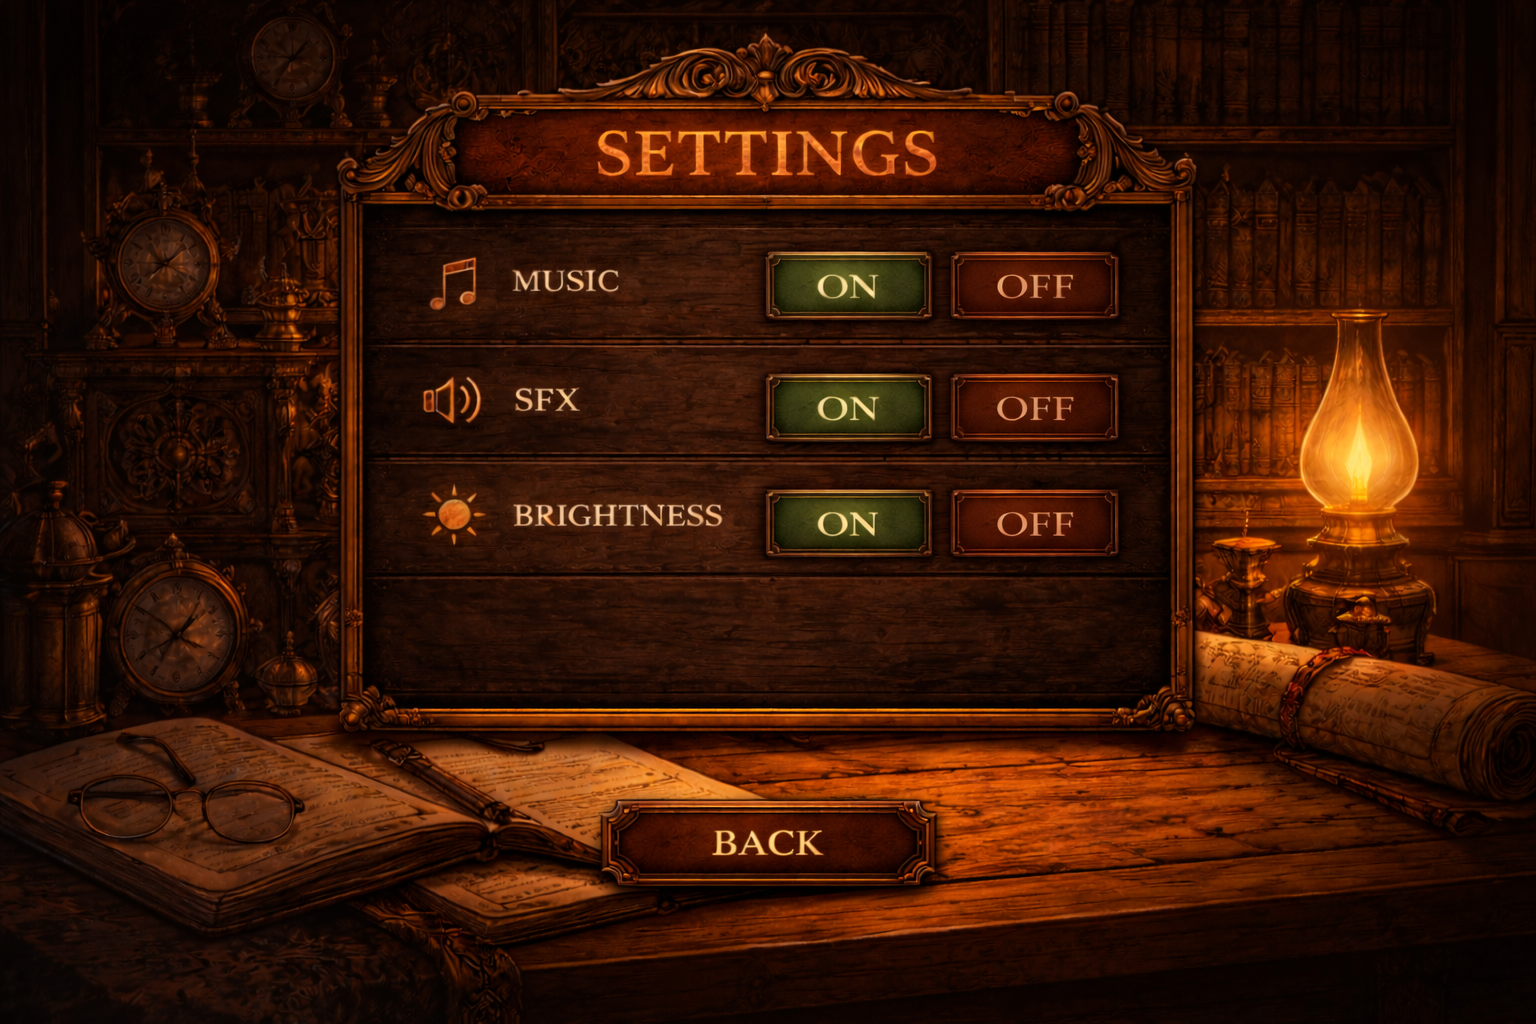
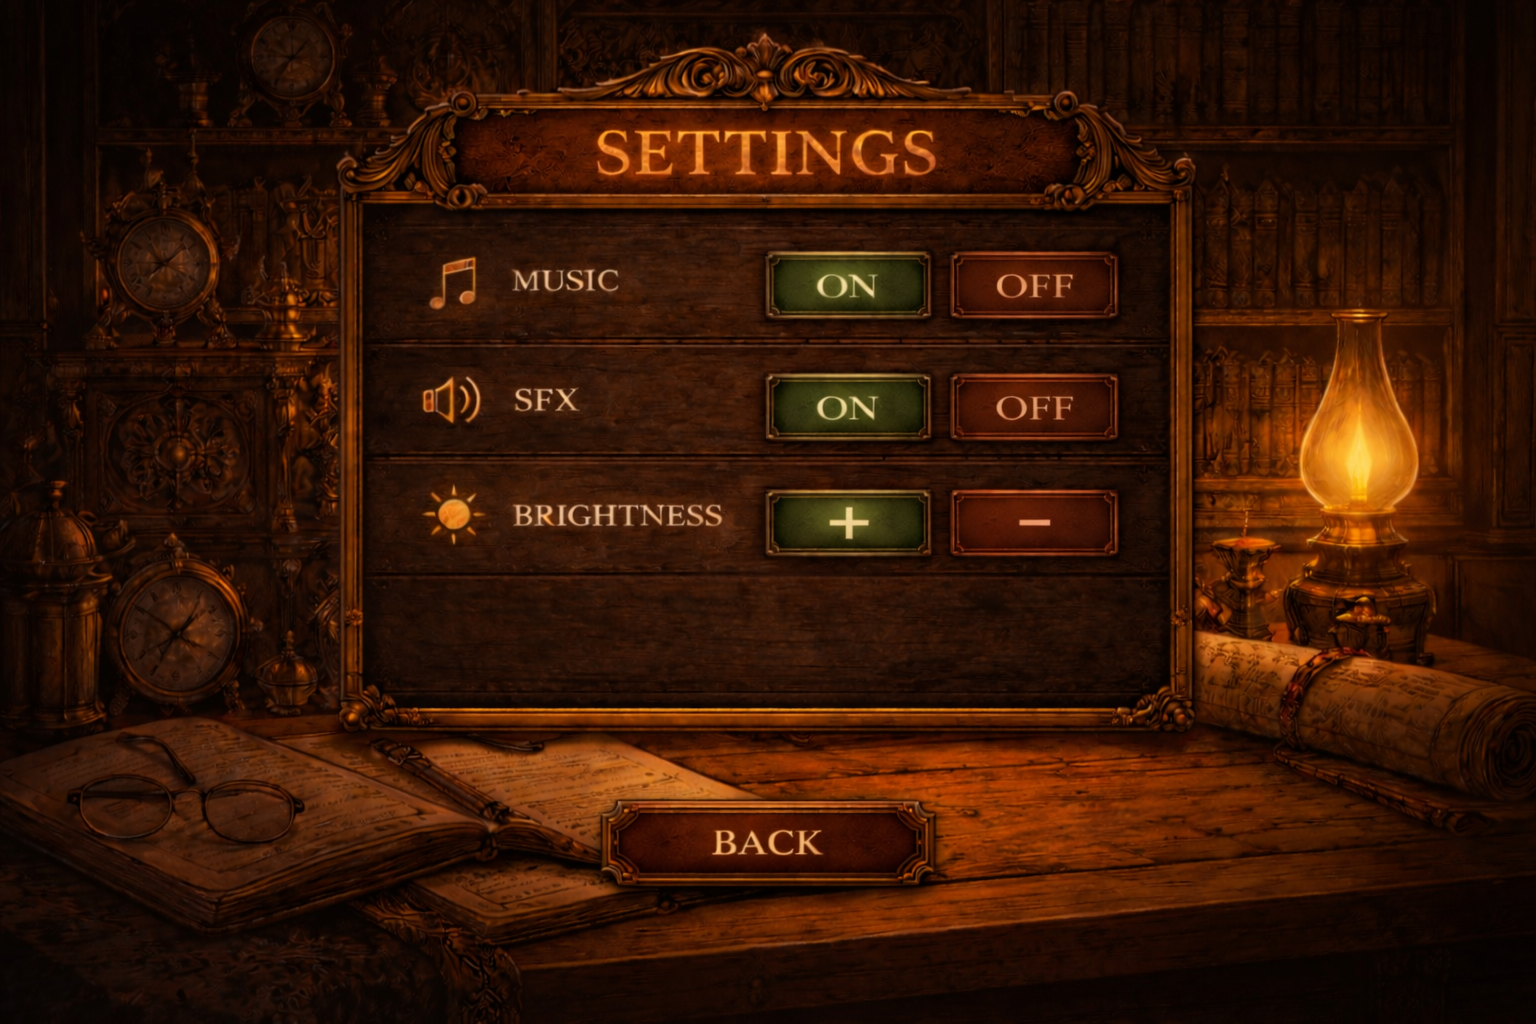
Cambios en el panel ajustes y implementación de los últimos botones en éste

diff --git a/UnderHisRoof/src/vista/FramePrincipal.java b/UnderHisRoof/src/vista/FramePrincipal.java
@@ -1,6 +1,8 @@
 package vista;
 
-import java.awt.BorderLayout;
+import java.awt.Color;
+import java.awt.Graphics;
+import java.awt.Graphics2D;
 import java.awt.event.ActionEvent;
 import java.awt.event.ActionListener;
 
@@ -8,9 +10,11 @@ import javax.swing.JButton;
 import javax.swing.JFrame;
 
 public class FramePrincipal extends JFrame implements ActionListener {
-	
+	private static final long serialVersionUID = 1L;
 	//ATRIBUTOS
 	
+	//Atributos normales
+	private float brillo= 0.0f;
 	//Paneles
 	private Inicio panelInicio = new Inicio();
 	private Sotano panelSotano = new Sotano();
@@ -22,6 +26,10 @@ public class FramePrincipal extends JFrame implements ActionListener {
 	private JButton botonVolumenOn = new JButton();
 	private JButton botonVolumenOff = new JButton();
 	private JButton botonBackAj = new JButton();
+	private JButton botonSFXOn = new JButton();
+	private JButton botonSFXOff = new JButton();
+	private JButton botonBrPlus = new JButton();
+	private JButton botonBrMin = new JButton();
 		
 	
 	//CONSTRUCTORES
@@ -72,7 +80,7 @@ public class FramePrincipal extends JFrame implements ActionListener {
 		botonSettings.addActionListener(this);	
 		
 		//Volume On
-		botonVolumenOn.setBounds(550,198,120,50);
+		botonVolumenOn.setBounds(548,198,120,50);
 		botonVolumenOn.setOpaque(false);
 		botonVolumenOn.setContentAreaFilled(false);
 		botonVolumenOn.setBorderPainted(false);
@@ -97,6 +105,42 @@ public class FramePrincipal extends JFrame implements ActionListener {
 		botonBackAj.setFocusPainted(false);
 		panelAjustes.add(botonBackAj);
 		botonBackAj.addActionListener(this);
+		
+		//SFX On 
+		botonSFXOn.setBounds(548,293,120,50);
+		botonSFXOn.setOpaque(false);
+		botonSFXOn.setContentAreaFilled(false);
+		botonSFXOn.setBorderPainted(false);
+		botonSFXOn.setFocusPainted(false);
+		panelAjustes.add(botonSFXOn);
+		botonSFXOn.addActionListener(this);
+		
+		//SFX Off
+		botonSFXOff.setBounds(680,293,120,50);
+		botonSFXOff.setOpaque(false);
+		botonSFXOff.setContentAreaFilled(false);
+		botonSFXOff.setBorderPainted(false);
+		botonSFXOff.setFocusPainted(false);
+		panelAjustes.add(botonSFXOff);
+		botonSFXOff.addActionListener(this);
+		
+		//Brightness Plus
+		botonBrPlus.setBounds(548,383,120,50);
+		botonBrPlus.setOpaque(false);
+		botonBrPlus.setContentAreaFilled(false);
+		botonBrPlus.setBorderPainted(false);
+		botonBrPlus.setFocusPainted(false);
+		panelAjustes.add(botonBrPlus);
+		botonBrPlus.addActionListener(this);
+		
+		//Brightness Minus
+		botonBrMin.setBounds(680,383,120,50);
+		botonBrMin.setOpaque(false);
+		botonBrMin.setContentAreaFilled(false);
+		botonBrMin.setBorderPainted(false);
+		botonBrMin.setFocusPainted(false);
+		panelAjustes.add(botonBrMin);
+		botonBrMin.addActionListener(this);
 		
 		setVisible(true);
 		
@@ -124,6 +168,38 @@ public class FramePrincipal extends JFrame implements ActionListener {
 			panelInicio.setVisible(true);
 		}
 		
+		if(e.getSource() == botonSFXOn) {
+			
+		}
+		
+		if(e.getSource() == botonSFXOff) {
+			
+		}
+		
+		if(e.getSource() == botonBrPlus) {
+			if(brillo < 0.6f){
+                brillo += 0.05f;
+                repaint();
+            }
+		}
+		
+		if(e.getSource() == botonBrMin) {
+			if(brillo > 0f){
+                brillo -= 0.05f;
+                repaint();
+            }
+		}
+		
 	}
+	
+	@Override
+    public void paint(Graphics g) {
+        super.paint(g);
+		if(brillo > 0){
+            Graphics2D g2 = (Graphics2D) g;
+            g2.setColor(new Color(0,0,0,brillo));
+            g2.fillRect(0,0,getWidth(),getHeight());
+        }
+    }
 	
 }
